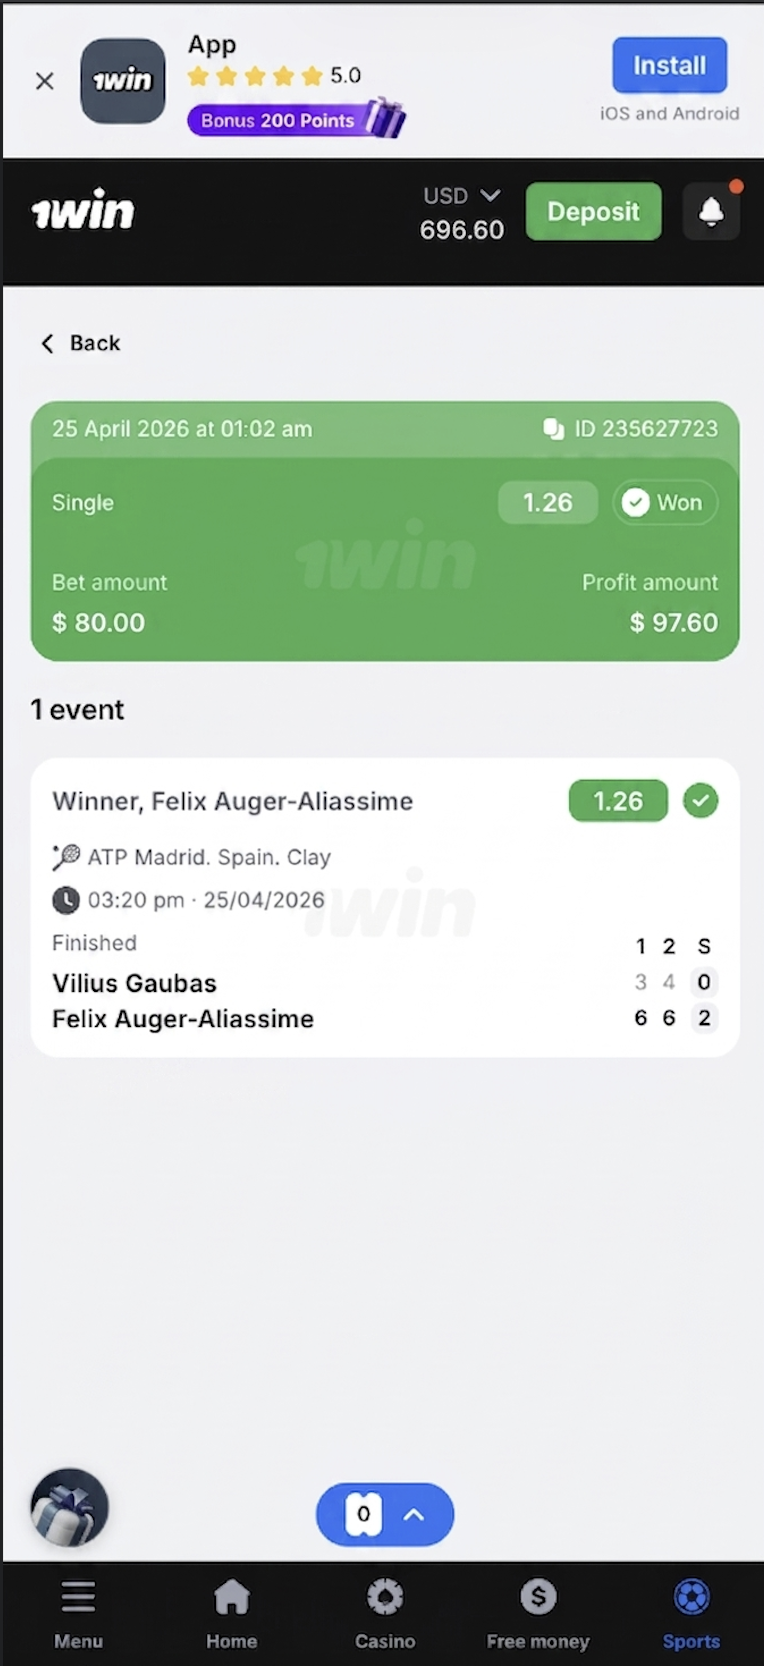
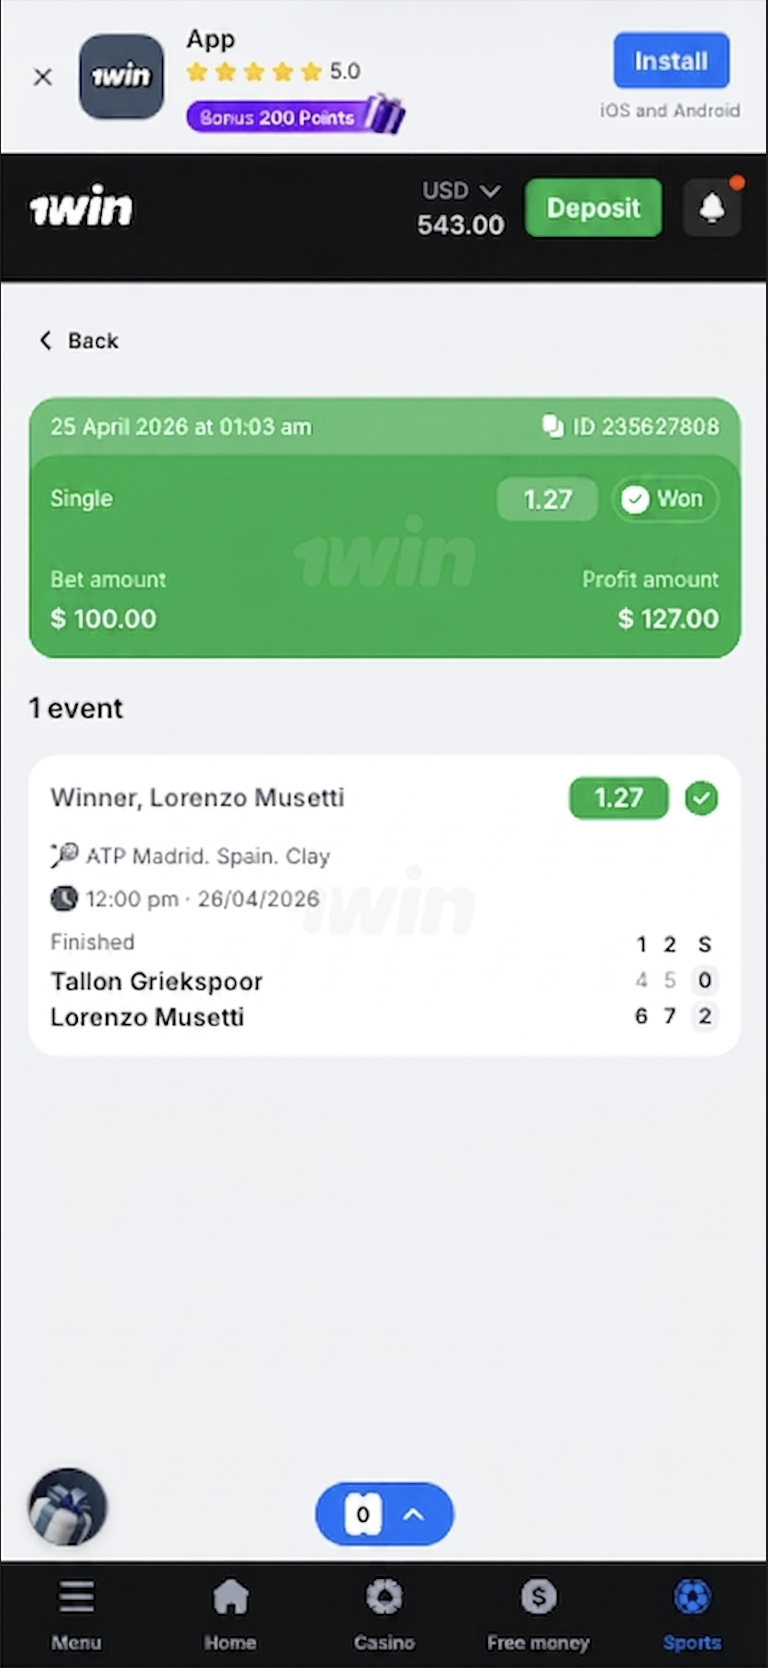
upadte

diff --git a/fortunobet/FortunoBetBot.py b/fortunobet/FortunoBetBot.py
@@ -41,34 +41,28 @@ scheduler = BlockingScheduler()
 # 14:00 — Withdraw + Tips (VALUE)
 # 22:00 — Final Bonus (HYPE)
 
-posts =[
+posts =
+[
+{"date":"2026-05-04","time":"16:00","content":"⚽ <b>$150 → $223.50. Arsenal ✅</b>\n\nEngland Premier League. Odds 1.46. 🏴\n$73.50 profit. Arsenal vs Newcastle. Dominant win. 💸\n\nArsenal strong home form. Data was clear. Easy read.\nMy guy — pure analysis, not luck. ✅\n\nYou dey watch while others dey collect? 🔥\n\nDeposit ₦3,000 → play with ₦18,000\n🔑 Code: <code>fortunobet</code>\n👉 <b>Join NOW:</b> https://1wzpdo.life/casino/list?open=register&p=z0ln","images":["win2.png"]},
+{"date":"2026-05-04","time":"23:55","content":"💸 <b>₦117,600 PalmPay — Arrived instant ✅</b>\n\nMonday 4 May. 06:32 AM. Real phone notification. 💚\n₦117,600 (~$80). ID: PPW-[phone redacted]. Same minute.\n\nBryan tested small first. Then scaled up.\nNo delay. No wahala. My guy — just pure money. 💸\n\n1WIN pays. PalmPay confirms. Every single time. ✅\n\nYou can't withdraw what you don't deposit. 🔥\n\nDeposit ₦5,000 → play with ₦30,000\n🔑 Code: <code>fortunobet</code>\n👉 <b>Start NOW:</b> https://1wzpdo.life/casino/list?open=register&p=z0ln","images":["withdrow2.png"]},
 
-{"date":"2026-04-25","time":"22:00","content":"💸 <b>₦72,000 PalmPay — Arrived tonight ✅</b>\n\nApril 23. 20:33. Real phone notification. 💚\n₦72,000 (~$48). ID: PPW-[phone redacted]. Same minute.\n\nKofi tested ₦3,000 first. Then deposited big.\nMy guy — ₦72,000 arrived instant. No wahala. 💸\n\n1WIN pays. PalmPay confirms. Every single time. ✅\n\nYou can't withdraw what you don't deposit. 🔥\n\nDeposit ₦5,000 → play with ₦30,000\n🔑 Code: <code>fortunobet</code>\n👉 <b>Start:</b> https://1wzpdo.life/casino/list?open=register&p=z4m5","images":["withdrow2.png"]},
+{"date":"2026-05-05","time":"16:00","content":"💡 <b>How to use your 600% bonus correctly</b>\n\nMy guy, most people waste their bonus. Here is how to use it right.\n\nStep 1: Register free with code FORTUNOBET.\nStep 2: Deposit ₦3,000 → you get ₦18,000 to play with.\nStep 3: Place small bets only. Don't rush.\nStep 4: Withdraw profits to PalmPay. Same day. 💸\n\nChale — test small first. Smart bettors don't rush. 🙏\n\nDeposit ₦3,000 → play with ₦18,000\n🔑 Code: <code>fortunobet</code>\n👉 <b>Start here:</b> https://1wzpdo.life/casino/list?open=register&p=z0ln","images":["bonus3.jpeg"]},
+{"date":"2026-05-05","time":"23:55","content":"🌐 <b>FortunoBet.com — Where Smart Bettors Win!</b>\n\n1WIN. Sports. Casino. Live games. All partners. 💰\nData-based. Transparent. Real results every week. ✅\n\n₦117,600 paid Monday. Real PalmPay proof. Not story.\nChale — join the winning community. Smart bettors here. 🔥\n\nThey don enter. You still dey outside?\n\nDeposit ₦10,000 → play with ₦60,000\n🔑 Code: <code>fortunobet</code>\n👉 <b>Join community:</b> https://fortunobet.com\n👉 <b>Start here:</b> https://1wzpdo.life/casino/list?open=register&p=z0ln","images":["bonus7.jpeg"]},
 
-{"date":"2026-04-26","time":"14:30","content":"💚 <b>This week. Real results. Full transparency. ✅</b>\n\nSun: $80 → $106.40 ✅ Kuzuhara — ranked higher. Easy.\nMon: $80 → $92.80 ✅ Zink — form was clear.\nWed: $75 → $107.25 ✅ Express — pure analysis.\n\nROI this week: +38% 📊\n₦52,500 + ₦72,000 = Both PalmPay instant. 💸\n\nTest small first. Smart bettors don't rush. 🙏\nChale — next week starts Monday. Don't miss it. 🔥\n\nDeposit ₦10,000 → play with ₦60,000\n🔑 Code: <code>fortunobet</code>\n👉 <b>Join FortunoBet community:</b> https://1wzpdo.life/casino/list?open=register&p=z4m5","images":["withdrow1.png","withdrow2.png"]},
-# {"date":"2026-04-26","time":"23:55","content":"🎰 <b>+600% Bonus — Last chance this week! ✅</b>\n\n1WIN Casino. Top slots. Live dealers. 💰\nDeposit ₦5,000 → play with ₦35,000 + 500 spins.\n\nPalmPay. Opay. Zero fees. Withdraw tonight. ✅\nWeek closes midnight. No dulling — bonus gone after.\n\nWe test. We withdraw. We scale. My guy — join us. 🔥\n\nDeposit ₦5,000 → play with ₦35,000\n🔑 Code: <code>fortunobet</code>\n👉 <b>Play NOW:</b> https://1wzpdo.life/casino/list?open=register&p=z4m5","images":["fortunobet3.jpeg"]},
+{"date":"2026-05-06","time":"12:00","content":"⚽ <b>$100 → $146.00. Liverpool ✅</b>\n\nEngland Premier League. Odds 1.49. 🏴\n$46 profit. Liverpool vs Crystal Palace. Dominant. 💸\n\nLiverpool strong form. H2H record was clear. Pure analysis.\nMon ✅ Tue ✅ Wed ✅ Pattern is real, my guy.\n\nSmart players follow. Scared ones watch. 🔥\n\nDeposit ₦5,000 → play with ₦30,000\n🔑 Code: <code>fortunobet</code>\n👉 <b>Join NOW:</b> https://1wzpdo.life/casino/list?open=register&p=z0ln","images":["win1.png"]},
+{"date":"2026-05-06","time":"23:55","content":"⚠️ <b>600% Bonus — your deadline is coming! ❌</b>\n\nRegistered Monday? Expires Wednesday 11:59 PM.\nRegistered Tuesday? Expires Thursday 11:59 PM. ⏰\n\n600% NOT lifetime. 48 hours only.\nChale — after deadline: ❌ Gone forever.\n\nNo dulling. Deposit NOW or lose it. 🔥\n\nDeposit ₦5,000 → play with ₦35,000\n🔑 Code: <code>fortunobet</code>\n👉 <b>NOW:</b> https://1wzpdo.life/casino/list?open=register&p=z0ln","images":["bonus4.jpeg"]},
 
-{"date":"2026-04-27","time":"16:26","content":"🎾 <b>$100 → $111.00. Kristiana Sidorova ✅</b>\n\nITF Women Tokyo. Japan. Hard. Odds 1.11. 🇯🇵\n$11 profit. Sidorova 6-1, 6-0. Completely dominant. 💸\n\nRanked far higher. Form was obvious. Easy data read.\nMy guy — pure analysis, not luck. ✅\n\nYou dey watch while others dey collect? 🔥\n\nDeposit ₦3,000 → play with ₦18,000\n🔑 Code: <code>fortunobet</code>\n👉 <b>Join NOW:</b> https://1wzpdo.life/casino/list?open=register&p=z0ln","images":["win1.png"]},
-{"date":"2026-04-27","time":"23:55","content":"💸 <b>₦184,800 PalmPay — Arrived instant ✅</b>\n\nMonday 27 April. 10:32 AM. Real phone notification. 💚\n₦184,800 (~$120). ID: PPW-[phone redacted]. Same minute.\n\nBryan tested small first. Then scaled up.\nNo delay. No wahala. My guy — just pure money. 💸\n\n1WIN pays. PalmPay confirms. Every single time. ✅\n\nYou can't withdraw what you don't deposit. 🔥\n\nDeposit ₦5,000 → play with ₦30,000\n🔑 Code: <code>fortunobet</code>\n👉 <b>Start NOW:</b> https://1wzpdo.life/casino/list?open=register&p=z0ln","images":["withdrow11.png"]},
+{"date":"2026-05-07","time":"16:00","content":"📊 <b>Why 1WIN pays faster than other sites</b>\n\nChale, let me show you the facts. Most sites delay withdrawals.\n\n1WIN is different because:\n✅ PalmPay withdrawals arrive in 3-5 minutes\n✅ No hidden fees on deposits or withdrawals\n✅ Available balance always accurate\n✅ PPW transaction ID confirms every payment\n\nMy guy — this is why smart bettors choose 1WIN. 🔥\n\nDeposit ₦3,000 → play with ₦18,000\n🔑 Code: <code>fortunobet</code>\n👉 <b>Start here:</b> https://1wzpdo.life/casino/list?open=register&p=z0ln","images":["bonus1.jpeg"]},
+{"date":"2026-05-07","time":"23:55","content":"💚 <b>₦2,000 test → ₦7,500 withdrawal ✅</b>\n\nReal story. This week. Kofi, Accra.\n\nDeposited ₦2,000 Monday — just to test the system.\nBet Premier League Tuesday. Form was obvious. Won ₦5,500.\nWithdrew ₦7,500 Thursday. PalmPay. 4 minutes. 💸\n\n\"I tested small first. Chale — now I trust 1WIN.\" 🔥\n\nDeposit ₦2,000 → play with ₦12,000\n🔑 Code: <code>fortunobet</code>\n👉 <b>Test it:</b> https://1wzpdo.life/casino/list?open=register&p=z0ln","images":["bonus5.jpeg"]},
 
-{"date":"2026-04-28","time":"16:00","content":"💡 <b>Why small deposits are smarter — explained</b>\n\nMy guy, hear this. Most people lose because they start too big.\n\nStep 1: Deposit ₦500-2,000 only. Test the system.\nStep 2: Place one small bet. See how it works.\nStep 3: Withdraw to PalmPay. Confirm it arrives.\nStep 4: Now you trust. Now you deposit bigger. 💸\n\nChale — test small first. Smart bettors don't rush. 🙏\n\nDeposit ₦3,000 → play with ₦18,000\n🔑 Code: <code>fortunobet</code>\n👉 <b>Start here:</b> https://1wzpdo.life/casino/list?open=register&p=z0ln","images":["partner1.jpeg"]},
-{"date":"2026-04-28","time":"23:55","content":"🌐 <b>FortunoBet.com — Where Smart Bettors Win!</b>\n\n1WIN. Sports. Casino. Live games. All partners. 💰\nData-based. Transparent. Real results every week. ✅\n\n₦184,800 paid Monday. Real PalmPay proof. Not story.\nChale — join the winning community. Smart bettors here. 🔥\n\nThey don enter. You still dey outside?\n\nDeposit ₦10,000 → play with ₦60,000\n🔑 Code: <code>fortunobet</code>\n👉 <b>Join community:</b> https://fortunobet.com\n👉 <b>Start here:</b> https://1wzpdo.life/casino/list?open=register&p=z0ln","images":["partner6.jpeg"]},
+{"date":"2026-05-08","time":"12:00","content":"🎾 <b>$100 → $127.00. Lorenzo Musetti ✅</b>\n\nATP Madrid. Spain. Clay. Odds 1.27. 🇪🇸\n$27 profit. Musetti 6-4, 7-5. Dominant. 💸\n\nRanked higher. Clay court specialist. Easy read.\nMon ✅ Wed ✅ Fri ✅ Three wins. Pure analysis, my guy.\n\nSTOP WATCHING. 🔥\n\nDeposit ₦5,000 → play with ₦30,000\n🔑 Code: <code>fortunobet</code>\n👉 <b>Join NOW:</b> https://1wzpdo.life/casino/list?open=register&p=z0ln","images":["win3.png"]},
+{"date":"2026-05-08","time":"23:55","content":"⚠️ <b>Bonus expires TOMORROW — last chance! ❌</b>\n\nRegistered this week? Your 600% expires soon. ⏰\nAfter tomorrow midnight: ❌ Gone forever.\n\nOne deposit activates everything.\nPalmPay. Opay. Zero fees. Instant. ✅\n\nNo dulling my guy — deposit NOW or miss it. 🔥\n\nDeposit ₦5,000 → play with ₦35,000\n🔑 Code: <code>fortunobet</code>\n👉 <b>NOW:</b> https://1wzpdo.life/casino/list?open=register&p=z0ln","images":["bonus6.jpeg"]},
 
-{"date":"2026-04-29","time":"12:00","content":"🎾 <b>$80 → $97.60. Karen Khachanov ✅</b>\n\nATP Madrid. Spain. Clay. Odds 1.22. 🇪🇸\n$17.60 profit. Khachanov 6-2, 6-3. Dominant. 💸\n\nRanked higher. H2H record was clear. Pure analysis.\nMon ✅ Tue ✅ Wed ✅ Pattern is real, my guy.\n\nSmart players follow. Scared ones watch. 🔥\n\nDeposit ₦5,000 → play with ₦30,000\n🔑 Code: <code>fortunobet</code>\n👉 <b>Join NOW:</b> https://1wzpdo.life/casino/list?open=register&p=z0ln","images":["win2.png"]},
-{"date":"2026-04-29","time":"23:55","content":"⚠️ <b>600% Bonus — your deadline is coming! ❌</b>\n\nRegistered Monday? Expires Wednesday 11:59 PM.\nRegistered Tuesday? Expires Thursday 11:59 PM. ⏰\n\n600% NOT lifetime. 48 hours only.\nChale — after deadline: ❌ Gone forever.\n\nNo dulling. Deposit NOW or lose it. 🔥\n\nDeposit ₦5,000 → play with ₦35,000\n🔑 Code: <code>fortunobet</code>\n👉 <b>NOW:</b> https://1wzpdo.life/casino/list?open=register&p=z0ln","images":["partner4.jpeg"]},
+{"date":"2026-05-09","time":"16:00","content":"🌐 <b>FortunoBet.com — This week results inside! ✅</b>\n\n3 wins. 2 withdrawals. All verified this week. 💸\n₦117,600 + ₦95,550 — Both PalmPay. Both instant.\n\nSports. Casino. All top partners. One platform.\nChale — no hidden fees. No wahala. Real payouts. 💰\n\nSmart bettors manage their bankroll. Only bet what you can afford. 🙏\n\n👉 <b>Join the community:</b> https://fortunobet.com\n👉 <b>Start here:</b> https://1wzpdo.life/casino/list?open=register&p=z0ln","images":["fortunobet1.png"]},
+{"date":"2026-05-09","time":"21:00","content":"💸 <b>₦95,550 PalmPay — Arrived Thursday ✅</b>\n\nThursday 7 May. 01:39 PM. Real phone notification. 💚\n₦95,550 (~$65). ID: PPW-[phone redacted]. Same minute.\n\nBryan withdrew Thursday afternoon. No delay. No wahala.\nMy guy — this is what consistent betting looks like. 💸\n\n1WIN pays. PalmPay confirms. Every single time. ✅\n\nYou can't withdraw what you don't deposit. 🔥\n\nDeposit ₦5,000 → play with ₦30,000\n🔑 Code: <code>fortunobet</code>\n👉 <b>Start:</b> https://1wzpdo.life/casino/list?open=register&p=z0ln","images":["withdrow1.png"]},
 
-{"date":"2026-04-30","time":"12:00","content":"📊 <b>What most Nigerian bettors do wrong</b>\n\nChale, let me be honest with you. Most people fail because:\n\n❌ They bet too much on one match — no bankroll control\n❌ They follow random channels — no real analysis\n❌ They chase losses — emotion over data\n\nWhat FortunoBet community does different:\n✅ We test small. We use data. We withdraw consistently.\n\nMy guy — join the system, not just a bet. 🔥\n\nDeposit ₦3,000 → play with ₦18,000\n🔑 Code: <code>fortunobet</code>\n👉 <b>Start here:</b> https://1wzpdo.life/casino/list?open=register&p=z0ln","images":["partner5.jpeg"]},
-{"date":"2026-05-01","time":"22:50","content":"💚 <b>₦3,000 test → ₦8,500 withdrawal ✅</b>\n\nReal story. This week. Emeka, Lagos.\n\nDeposited ₦3,000 Monday — just to test the system.\nBet tennis Wednesday. Form was obvious. Won ₦5,500.\nWithdrew ₦8,500 Thursday. PalmPay. 3 minutes. 💸\n\n\"I tested small first. Chale — now I trust 1WIN.\" 🔥\n\nDeposit ₦3,000 → play with ₦18,000\n🔑 Code: <code>fortunobet</code>\n👉 <b>Test it:</b> https://1wzpdo.life/casino/list?open=register&p=z0ln","images":["partner2.png"]},
-
-{"date":"2026-05-01","time":"12:00","content":"🎾 <b>$80 → $97.60. Felix Auger-Aliassime ✅</b>\n\nATP Madrid. Spain. Clay. Odds 1.26. 🇪🇸\n$17.60 profit. Auger-Aliassime 6-3, 6-4. Dominated. 💸\n\nRanked higher. Recent form strong. Easy read.\nMon ✅ Wed ✅ Fri ✅ Three wins. Pure analysis, my guy.\n\nSTOP WATCHING. 🔥\n\nDeposit ₦5,000 → play with ₦30,000\n🔑 Code: <code>fortunobet</code>\n👉 <b>Join NOW:</b> https://1wzpdo.life/casino/list?open=register&p=z0ln","images":["win3.png"]},
-{"date":"2026-05-01","time":"01:30","content":"⚠️ <b>Bonus expires TOMORROW — last chance! ❌</b>\n\nRegistered this week? Your 600% expires soon. ⏰\nAfter tomorrow midnight: ❌ Gone forever.\n\nOne deposit activates everything.\nPalmPay. Opay. Zero fees. Instant. ✅\n\nNo dulling my guy — deposit NOW or miss it. 🔥\n\nDeposit ₦5,000 → play with ₦35,000\n🔑 Code: <code>fortunobet</code>\n👉 <b>NOW:</b> https://1wzpdo.life/casino/list?open=register&p=z0ln","images":["partner7.jpeg"]},
-
-{"date":"2026-05-02","time":"16:00","content":"🌐 <b>FortunoBet.com — This week results inside! ✅</b>\n\n3 wins. 2 withdrawals. All verified this week. 💸\n₦184,800 + ₦241,760 — Both PalmPay. Both instant.\n\nSports. Casino. All top partners. One platform.\nChale — no hidden fees. No wahala. Real payouts. 💰\n\nSmart bettors manage their bankroll. Only bet what you can afford. 🙏\n\n👉 <b>Join the community:</b> https://fortunobet.com\n👉 <b>Start here:</b> https://1wzpdo.life/casino/list?open=register&p=z0ln","images":["fortunobet1.png"]},
-{"date":"2026-05-02","time":"21:00","content":"💸 <b>₦241,760 PalmPay — Arrived Saturday ✅</b>\n\nSaturday May 2. 09:42 AM. Real phone notification. 💚\n₦241,760 (~$160). ID: PPW-[phone redacted]. Same minute.\n\nBryan withdrew Saturday morning. No delay. No wahala.\nMy guy — this is what consistent betting looks like. 💸\n\n1WIN pays. PalmPay confirms. Every single time. ✅\n\nYou can't withdraw what you don't deposit. 🔥\n\nDeposit ₦5,000 → play with ₦30,000\n🔑 Code: <code>fortunobet</code>\n👉 <b>Start:</b> https://1wzpdo.life/casino/list?open=register&p=z0ln","images":["withdrow22.png"]},
-
-{"date":"2026-05-03","time":"16:00","content":"💚 <b>This week. Real results. Full transparency. ✅</b>\n\nMon: $100 → $111.00 ✅ Sidorova — dominant form.\nWed: $80 → $97.60 ✅ Khachanov — H2H was clear.\nFri: $80 → $97.60 ✅ Auger-Aliassime — ranked higher.\n\nROI this week: +24% 📊\n₦184,800 + ₦241,760 = Both PalmPay instant. 💸\n\nTest small first. Smart bettors don't rush. 🙏\nChale — next week starts Monday. Don't miss it. 🔥\n\nDeposit ₦10,000 → play with ₦60,000\n🔑 Code: <code>fortunobet</code>\n👉 <b>NOW:</b> https://1wzpdo.life/casino/list?open=register&p=z0ln","images":["withdrow11.png","withdrow22.png"]},
-{"date":"2026-05-03","time":"23:55","content":"🎰 <b>+600% Bonus — Last chance this week! ✅</b>\n\n1WIN Casino. Top slots. Live dealers. 💰\nDeposit ₦5,000 → play with ₦35,000 + 500 spins.\n\nPalmPay. Opay. Zero fees. Withdraw tonight. ✅\nWeek closes midnight. No dulling — bonus gone after.\n\nWe test. We withdraw. We scale. My guy — join us. 🔥\n\nDeposit ₦5,000 → play with ₦35,000\n🔑 Code: <code>fortunobet</code>\n👉 <b>Play NOW:</b> https://1wzpdo.life/casino/list?open=register&p=z0ln","images":["partner3.jpeg"]}
-
+{"date":"2026-05-10","time":"16:00","content":"💚 <b>This week. Real results. Full transparency. ✅</b>\n\nMon: $150 → $223.50 ✅ Arsenal — strong home form.\nWed: $100 → $146.00 ✅ Liverpool — H2H was clear.\nFri: $100 → $127.00 ✅ Musetti — clay specialist.\n\nROI this week: +40% 📊\n₦117,600 + ₦95,550 = Both PalmPay instant. 💸\n\nTest small first. Smart bettors don't rush. 🙏\nChale — next week starts Monday. Don't miss it. 🔥\n\nDeposit ₦10,000 → play with ₦60,000\n🔑 Code: <code>fortunobet</code>\n👉 <b>NOW:</b> https://1wzpdo.life/casino/list?open=register&p=z0ln","images":["withdrow2.png","withdrow1.png"]},
+{"date":"2026-05-10","time":"23:55","content":"🎰 <b>+500% Bonus — Last chance this week! ❌</b>\n\n1WIN Casino. Top slots. Live dealers. 💰\nDeposit ₦5,000 → play with ₦30,000 + 500 spins.\n\nPalmPay. Opay. Zero fees. Withdraw tonight. ✅\nWeek closes midnight. No dulling — bonus gone after.\n\nWe test. We withdraw. We scale. My guy — join us NOW. 🔥\n\nDeposit ₦5,000 → play with ₦30,000\n🔑 Code: <code>fortunobet</code>\n👉 <b>Play NOW:</b> https://1wzpdo.life/casino/list?open=register&p=z0ln","images":["bonus4.jpeg"]}
 ]
 
 